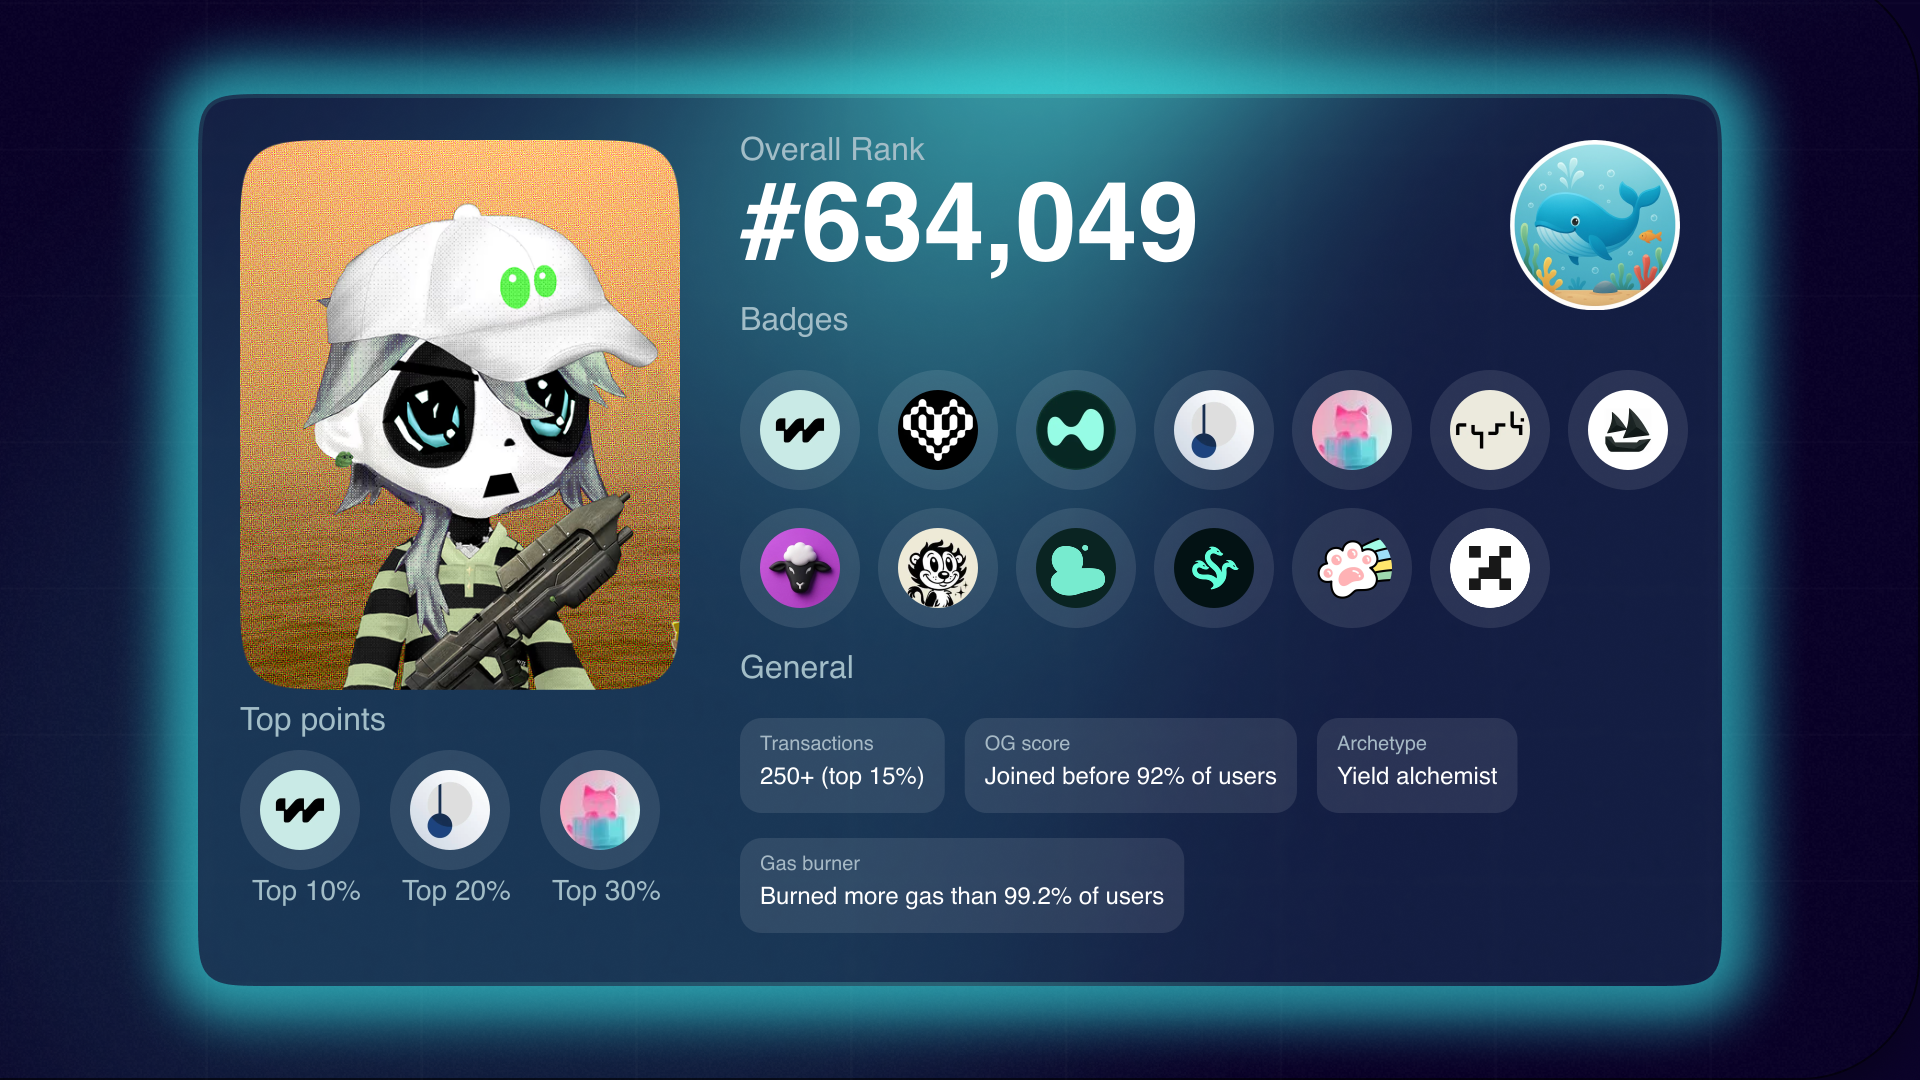
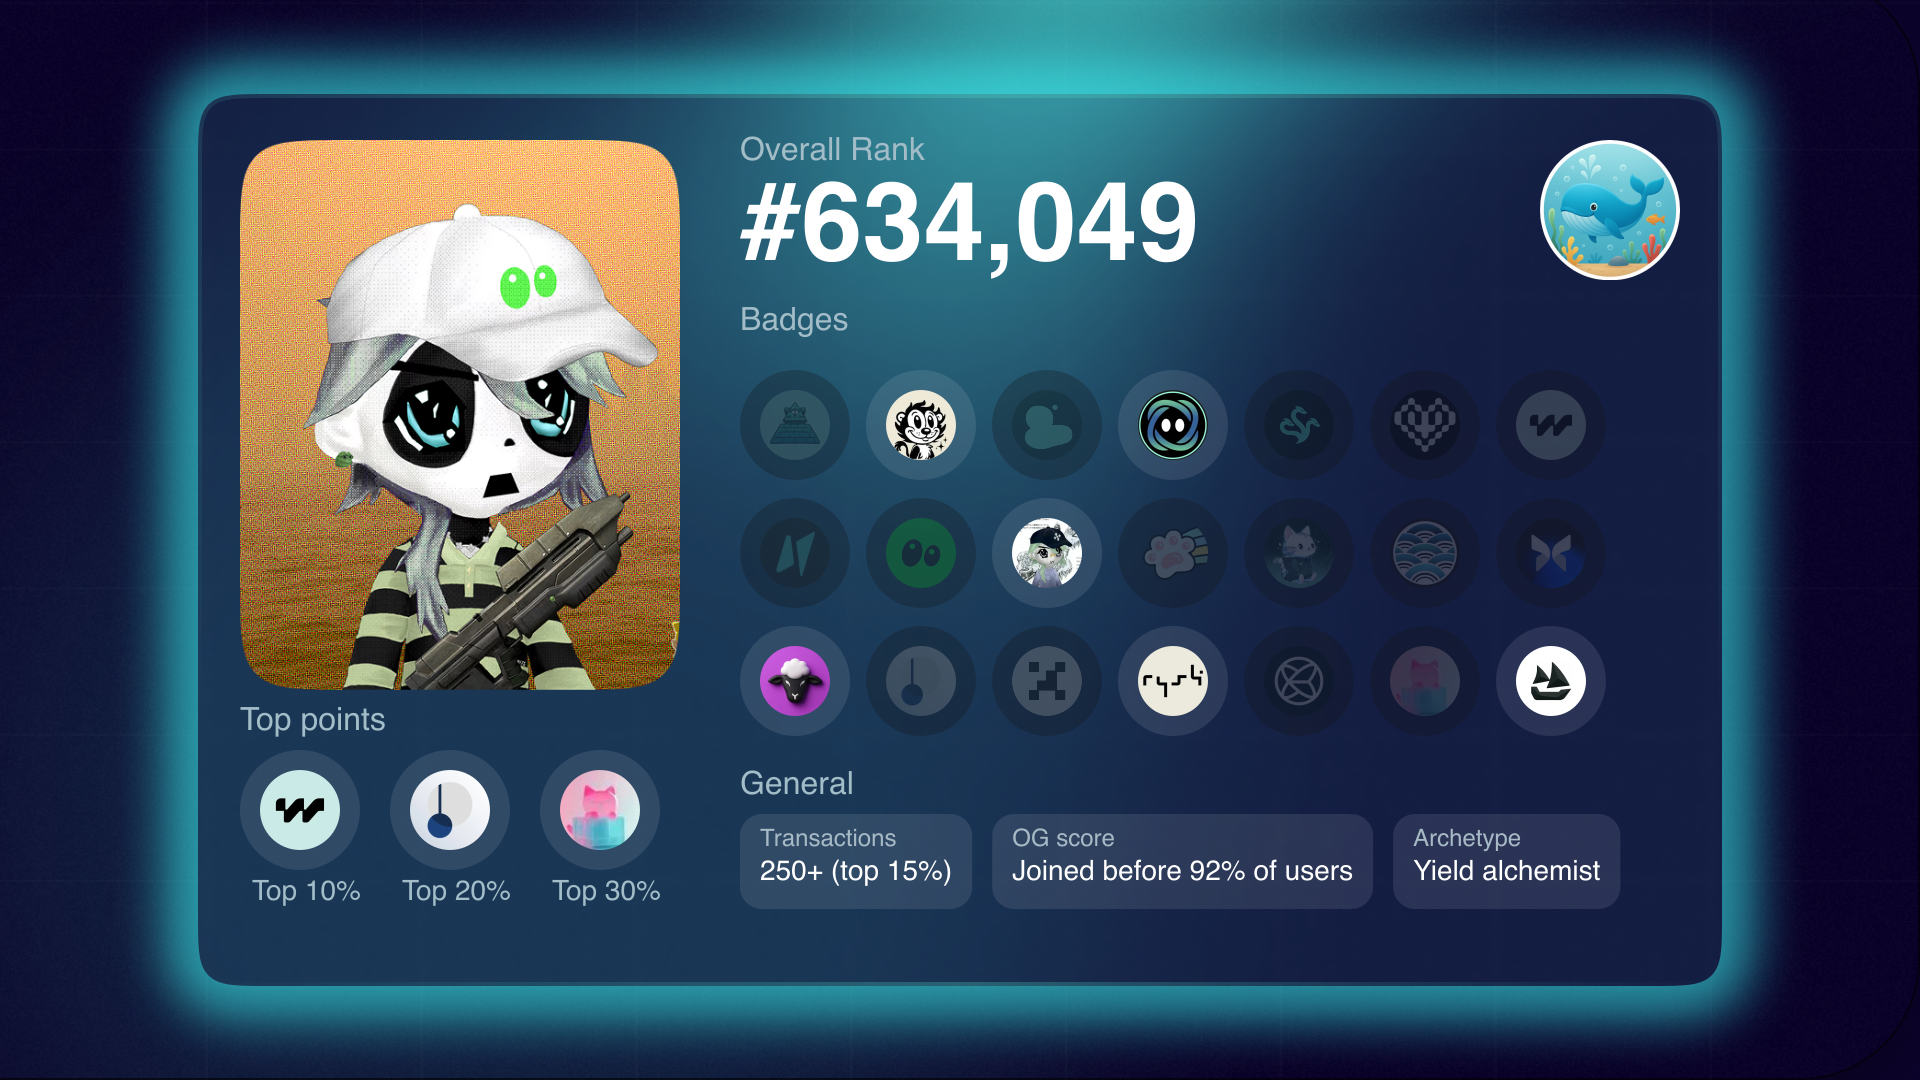
fix image

Changed region(s): [[0.375, 0.3361, 0.875, 0.7333], [0.375, 0.7639, 0.8438, 0.8556], [0.7812, 0.1222, 0.875, 0.3056]]

diff --git a/images-generation/generateImage.js b/images-generation/generateImage.js
@@ -3,6 +3,30 @@ const path = require("path");
 const { createCanvas, loadImage } = require("canvas");
 const sharp = require("sharp");
 
+protocolsList = [
+  "catbal",
+  "felix",
+  "gliquid",
+  "hlnames",
+  "hybra",
+  "hyperbeat",
+  "hyperlend",
+  "hypersurface",
+  "hyperswap",
+  "HypioNFTS",
+  "hypurrfi",
+  "HypurrNFTS",
+  "kinetiq",
+  "morpho",
+  "nunchi",
+  "pendle",
+  "projectx",
+  "rysk",
+  "theo",
+  "ultrasolid",
+  "ventuals", 
+]
+
 // Helper function handling WebP via sharp
 async function loadImageSafe(imagePath, baseDir = __dirname) {
   const fullPath = path.isAbsolute(imagePath)
@@ -124,7 +148,7 @@ async function generateProfileImage(jsonPath, outputPath) {
    User Badge (shrimp) top-right
   --------------------------------------------------------- */
   const shrimp = await loadImageSafe(`images/${data.userBadge}.png`, baseDir);
-  const shrimpSize = 170;
+  const shrimpSize = 140;
   const shrimpPadding = 40;
 
   ctx.drawImage(
@@ -158,7 +182,7 @@ async function generateProfileImage(jsonPath, outputPath) {
   currentY += 170;
   ctx.fillText("Badges", rightSectionX, currentY);
 
-  const badgeSize = 80;
+  const badgeSize = 70;
   const badgeSpacing = 50;
   const badgesPerRow = 7;
 
@@ -166,12 +190,35 @@ async function generateProfileImage(jsonPath, outputPath) {
   let badgeY = currentY + 40;
   let badgeCount = 0;
 
-  for (let badgePath of data.protocolBadges) {
+  for (let badgePath of protocolsList) {
+    const isEnabled = data.protocolBadges && data.protocolBadges.includes(badgePath);
+    
     const badgeImg = await loadImageSafe(`badges/${badgePath}.webp`, baseDir);
+
+    // Save context state
+    ctx.save();
+    
+    // Apply disabled effect if protocol is not in the list
+    if (!isEnabled) {
+      ctx.globalAlpha = 0.25; // Reduce opacity to 25% for disabled look
+    }
 
     drawRoundedIcon(ctx, badgeImg, badgeX, badgeY, badgeSize, 20, true);
 
-    badgeX += badgeSize + badgeSpacing + 8; // adjust spacing
+    // If disabled, add a dark overlay for extra dimming effect
+    if (!isEnabled) {
+      const bgSize = badgeSize + 40; // size + padding * 2
+      ctx.globalAlpha = 0.5;
+      ctx.fillStyle = 'rgba(0, 0, 0, 0.5)'; // Dark overlay
+      ctx.beginPath();
+      ctx.arc(badgeX + bgSize / 2, badgeY + bgSize / 2, bgSize / 2, 0, Math.PI * 2);
+      ctx.fill();
+    }
+
+    // Restore context state
+    ctx.restore();
+
+    badgeX += badgeSize + badgeSpacing + 6; // adjust spacing
     badgeCount++;
 
     if (badgeCount % badgesPerRow === 0) {
@@ -188,7 +235,7 @@ if (data.general) {
 
   // Position under badges
   let gX = rightSectionX;
-  let gY = badgeY + badgeSize + 90;
+  let gY = badgeY + 40;
 
   // Title
   ctx.font = "32px Manrope";
@@ -205,10 +252,10 @@ if (data.general) {
 
   // Function to draw a stat card
   const drawCard = (title, value, x, y) => {
+    // Measure card width using respective font sizes
     ctx.font = "24px Manrope";
-
-    // Measure card width
     const titleWidth = ctx.measureText(title).width;
+    ctx.font = "28px Manrope";
     const valueWidth = ctx.measureText(value).width;
     const maxWidth = Math.max(titleWidth, valueWidth);
 
@@ -223,12 +270,12 @@ if (data.general) {
 
     // Title
     ctx.fillStyle = "#A6B9C5";
-    ctx.font = "20px Manrope";
+    ctx.font = "24px Manrope";
     ctx.fillText(title, x + cardPaddingX, y + 32);
 
     // Value
     ctx.fillStyle = "#FFFFFF";
-    ctx.font = "24px Manrope";
+    ctx.font = "28px Manrope";
     ctx.fillText(
       value,
       x + cardPaddingX,
@@ -242,16 +289,13 @@ if (data.general) {
   let cx = rightSectionX;
 
   if (stats.transactions) {
-    cx += drawCard("Transactions", stats.transactions, cx, gY) + cardSpacingX;
+    cx += drawCard("Transactions", stats.transactions, cx, gY - 20) + cardSpacingX;
   }
   if (stats.og) {
-    cx += drawCard("OG score", stats.og, cx, gY) + cardSpacingX;
+    cx += drawCard("OG score", stats.og, cx, gY - 20) + cardSpacingX;
   }
   if (stats.archetype) {
-    cx += drawCard("Archetype", stats.archetype, cx, gY) + cardSpacingX;
-  }
-  if (stats.gas) {
-    drawCard("Gas burner", stats.gas, rightSectionX, gY + 120);
+    cx += drawCard("Archetype", stats.archetype, cx, gY - 20) + cardSpacingX;
   }
 }
   /* ---------------------------------------------------------
